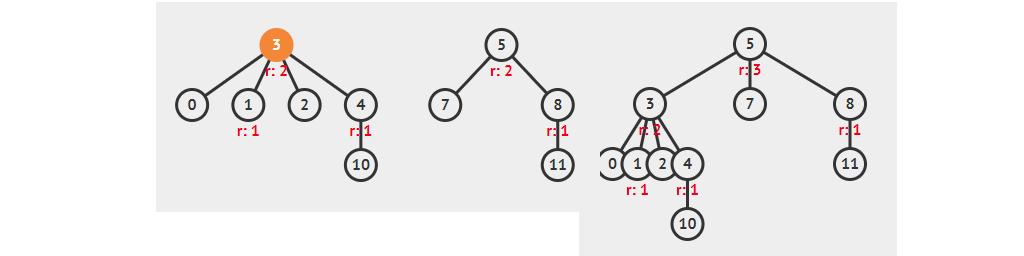
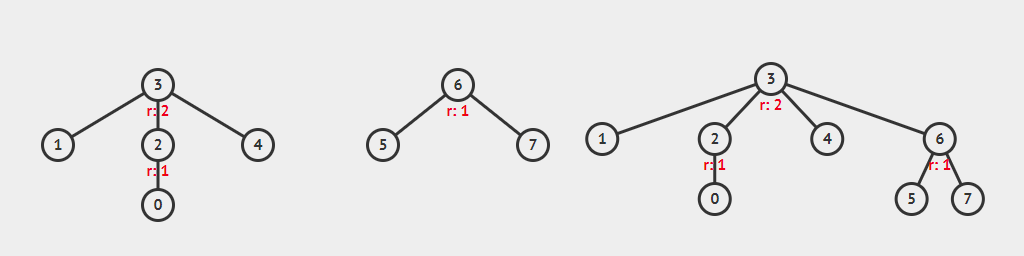
update union-find image, articles

diff --git a/doc/disjointset_unionfind.md b/doc/disjointset_unionfind.md
@@ -26,13 +26,9 @@ compression optimization 이라고 한다.
 
 ![](/_img/unionfind_find.png)
 
-위의 그림은 `find(0)` 을 수행하기 전과 후이다. 트리의 max level이
-낮아 졌음을 확인하자.
-
-## Time Complexity
-
-```
-```
+위의 그림은 `find(0)` 을 수행하기 전과 후이다. `0` 의 부모 노드인 `1,
+3, 7` 의 부모가 루트 노드인 `15` 로 바뀌었다. 일부 노드의 path가
+압축되어 검색 속도를 향상 할 수 있게 되었다.
 
 # Algorithm Merge
 
@@ -48,10 +44,10 @@ root를 `u-root`, `v`가 포함된 트리의 root를 `v-root`라고
 
 ![](/_img/unionfind_merge.png)
 
-위의 그림은 `merge(3, 5)`를 수행하기 전과 후이다. `rank`가 같은 녀석 둘이
-결합 하여 `rank`가 하나 증가 했음을 확인하자.
-
-## Time Complexity
+위의 그림은 `merge(3, 6)`를 수행하기 전과 후이다. `rank`가 큰 트리의
+루트 노드가 `rank` 가 작은 트리의 루트 노트의 부모가 되었다. 전체
+트리의 level을 가능한 낮게 유지하여 검색 속도를 향상 할 수 있게
+되었다.
 
 # Implementation
 
